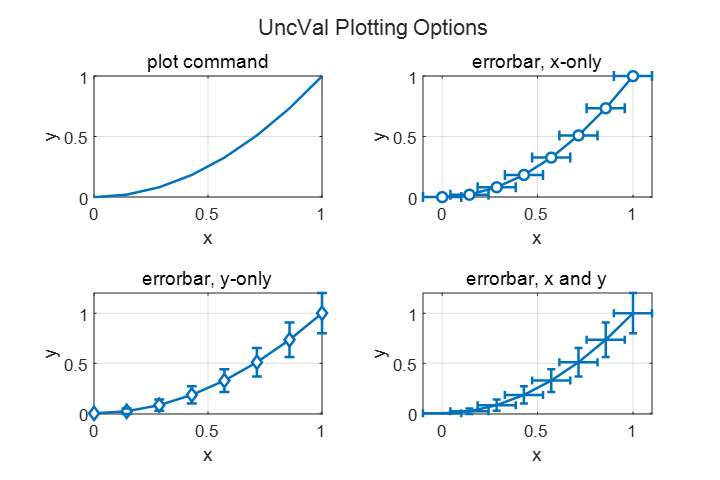
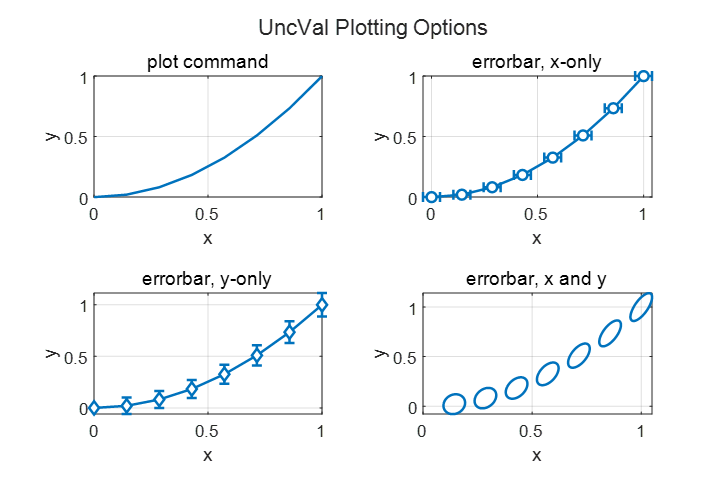
Modifying errobar plot of ellipses. Ellipses are plotted as lines by default. The user can supply a confidence interval. Updating to use modern argument validation approach.

diff --git a/@UncVal/errorbar.m b/@UncVal/errorbar.m
@@ -1,66 +1,69 @@
-function h = errorbar(varargin)
+function h = errorbar(ha, x, y, opts, erropts)
 %ERRORBAR errorbar plot for UncVal objects, automatically configures 95%
 %error bars.
 % One additional argument is supported beyond the normal errorbar
 % functionality.  For cases where both `x` and `y` are UncVal objects, pass
 % SDE=false to get normal x-y errorbars.  Defaults to SDE=true, which will
 % draw a standard devaite ellipse illustrating the correlation.
+%
+% INPUTS:
+%  ha: optional axes handle
+%  x: x coordinates to plot if x and y are both given.  If only one is
+%  given, a default x coordinate is generated
+%  y: y coordiantes to plot
+%  opts: Name-Value pairs specific to UncVal.errorbar
+%    .SDE: plot standard-deviational-ellipse for correlated `x` and `y`
+%          defaults to true
+%    .SDEpatch: if true, plots SDE's as patches.  if false, plots SDE's as
+%          lines that form closed ellipses.  defaults to false.
+%    .confidence: confidence interval for setting errorbars, set as a
+%    fractional confidence in interval [0, 1] defaults to 0.9545 (2-sigma)
+%  erropts: Name-Value pairs for standard errorbar call
 
+arguments
+    ha
+    x  = []
+    y = []
+    opts.SDE (1, 1) logical = true;
+    opts.SDEpatch (1, 1) logical = false;
+    opts.confidence double = 0.954499736103642;
+    erropts.?matlab.graphics.chart.primitive.ErrorBar;
+end
+
+erropts = namedargs2cell(erropts);
 
 %% parse input arguments
-i = 1;
-if nargin > 0 && all(ishghandle(varargin{1}))
-    ha = varargin{1};
-    i = i + 1;
-else
+% need to figure out if ha was given, if not first argument was x
+if ~all(ishghandle(ha))
+    % shift arguments back
+    y = x;
+    x = ha;
+
+    % use current axes
     ha = gca;
 end
 
-% check if y is supplied or x and y
-yOnly = nargin < (i+1) ...
-      || ~(isnumeric(varargin{i+1}(1)) || isa(varargin{i+1}(1), "UncVal"));
-if yOnly
-    % just y, let's make a default x
-    y = varargin{i};
+% if y is not given, generate default x coordinates
+if isempty(y)
+    y = x;
     x = 1:length(y);
-    i = i + 1;
-else
-    % x and y are given
-    x = varargin{i};
-    y = varargin{i+1};
-    i = i + 2;
-end
-extraArgs1 = varargin(i:end);
-
-% extract new arguments
-SDE = true;
-i = 1;
-extraArgs = {};
-while i <= length(extraArgs1)
-    if (ischar(extraArgs1{i}) || isstring(extraArgs1{i})) ...  %must be string like
-            && string(extraArgs1{i}) == "SDE" ... % and be equal to the SDE option name
-            && i < length(extraArgs1) ... % and there must be an element for the value of the object
-            && ~extraArgs1{i+1}
-        SDE = false;
-        i = i + 2;
-    else
-        extraArgs = [extraArgs, extraArgs1(i)]; %#ok<AGROW>
-        i = i + 1;
-    end
 end
 
 %% Make plot
 if isnumeric(x)
     % only y is an UncVal
-    h = errorbar(ha, x, y.val, 2.*y.unc(), "vertical", extraArgs{:});
+    ry = f_r(y, opts.confidence);
+    h = errorbar(ha, x, y.val, ry, "vertical", erropts{:});
 elseif isnumeric(y)
     % only x is an UncVal
-    h = errorbar(ha, x.val, y, 2.*x.unc(), "horizontal", extraArgs{:});
-elseif ~SDE
+    rx = f_r(x, opts.confidence);
+    h = errorbar(ha, x.val, y, rx, "horizontal", erropts{:});
+elseif ~opts.SDE
     % both x and y are UncVals, but user doesn't want correlated SDE
     % they may have different uncertainties, so we use the expanded form
-    h = errorbar(ha, x.val, y.val, 2.*y.unc(), 2.*y.unc(), ...
-        2.*x.unc(), 2.*x.unc(), extraArgs{:});
+    rx = f_r(x, opts.confidence);
+    ry = f_r(y, opts.confidence);
+    h = errorbar(ha, x.val, y.val, ry, ry, rx, rx, erropts{:});
 else
     % both x and y are UncVals, and we want the ellipse
     % will draw as an array of patch objects, each column of the plot
@@ -74,10 +77,10 @@ else
     [xp, yp] = unit_circle(); % one circle
     xp = xp + zeros(size(x)); % one circle per point
     yp = yp + zeros(size(y)); 
+    xp2 = zeros(size(xp));
+    yp2 = zeros(size(yp));
 
-
-    r = sqrt(-2*log(1-0.95)); % scaling to enclose 95% of values, 
-                              % TODO: let user override
+    r = sqrt(-2*log(1-opts.confidence)); % scaling for confidence
     for i = 1:length(x)    
         % axes of ellipse are given by the eigenvectors and eigenvalues of 
         % the covariance matrix
@@ -97,8 +100,20 @@ else
     xp2 = xp2 + x.val;
     yp2 = yp2 + y.val;
 
-    h = patch(xp2, yp2, ha.ColorOrder(ha.ColorOrderIndex, :), ...
-        extraArgs{:});
+    if opts.SDEpatch
+        h = patch(xp2(1:end-1, :), yp2(1:end-1, :), ...
+            ha.ColorOrder(ha.ColorOrderIndex, :), ...
+            "EdgeColor", ha.ColorOrder(ha.ColorOrderIndex, :), ...
+            "FaceAlpha", 0.3, ...
+            erropts{:});
+        ha.ColorOrderIndex = ha.ColorOrderIndex + 1;
+    else
+        % collapse into a single line, separating individual ellipses with
+        % nans
+        xp2(end+1, :) = nan;
+        yp2(end+1, :) = nan;
+        h = plot(xp2(:), yp2(:), erropts{:});
+    end
     
 end
 
@@ -113,7 +128,13 @@ end
 % angle theta / pi
 thetaQpi = linspace(0, 2, n+1)';
 
-x = cospi(thetaQpi(1:n));
-y = sinpi(thetaQpi(1:n));
+x = cospi(thetaQpi);
+y = sinpi(thetaQpi);
+end
+
+function r = f_r(obj, p)
+% helper function to return multiplier for double-sided probability
+
+r = quantile(obj, 0.5*p+0.5) - obj.val;
 end
 

diff --git a/TEST_UncVal_CovPlot.m b/TEST_UncVal_CovPlot.m
@@ -18,39 +18,26 @@ xlabel("x"); ylabel("y");
 scatter(xmc, ymc, "filled", ...
     MarkerFaceAlpha=50/255, ...
     MarkerEdgeColor="none");
-errorbar(x, y, ...
-    FaceAlpha=0.3, ...
-    FaceColor=ha.ColorOrder(2, :), ...
-    EdgeColor=ha.ColorOrder(2, :)); 
+errorbar(x, y, SDEpatch=true); 
 
 nexttile;hold on;
 xlabel("y");ylabel("z");
 scatter(ymc, zmc, "filled", ...
     MarkerFaceAlpha=50/255, ...
     MarkerEdgeColor="none");
-errorbar(y, z, ...
-    FaceAlpha=0.3, ...
-    FaceColor=ha.ColorOrder(2, :), ...
-    EdgeColor=ha.ColorOrder(2, :)); 
+errorbar(y, z); 
 
 nexttile;hold on;
 xlabel("y");ylabel("z2");
 scatter(ymc, z2mc, "filled", ...
     MarkerFaceAlpha=50/255, ...
     MarkerEdgeColor="none");
-errorbar(y, z2, ...
-    FaceAlpha=0.3, ...
-    FaceColor=ha.ColorOrder(2, :), ...
-    EdgeColor=ha.ColorOrder(2, :)); 
+errorbar(y, z2); 
 
 nexttile;hold on;
 xlabel("x");ylabel("x");
 scatter(xmc, xmc, "filled", ...
     MarkerFaceAlpha=50/255, ...
     MarkerEdgeColor="none");
-errorbar(x, x, ...
-    FaceAlpha=0.3, ...
-    FaceColor=ha.ColorOrder(2, :), ...
-    EdgeColor=ha.ColorOrder(2, :), ...
-    LineWidth=2); 
+errorbar(x, x , LineWidth=2); 
 

diff --git a/TEST_UncVal_2.m b/TEST_UncVal_2.m
@@ -4,8 +4,8 @@
 % the errorbar command automatically plots error bars at ±2*x.unc()
 
 %% Test 2
-x = UncVal(linspace(0, 1, 8), 0.1/2, "x");
-y = x.^2;
+x = UncVal(linspace(0, 1, 8), 0.02, "x");
+y = x.^2 + UncVal(0, 0.04, "y");
 
 figure("defaultErrorBarLineWidth", 1.5, ...
     "Units", "in", "Position", [1,1,6,4]);
@@ -27,4 +27,4 @@ errorbar(x.val, y, Marker="d", MarkerFaceColor=ha.Color);
 
 nexttile;hold on;xlabel("x");ylabel("y");
 title("errorbar, x and y", FontWeight="normal")
-errorbar(x, y, CapSize=4, SDE=false);
+errorbar(x, y);

diff --git a/README.md b/README.md
@@ -49,9 +49,10 @@ expected to be true for a typical use pattern.
 
 The plot and errorbar functions are overloaded so that objects can be 
 passed directly to plot calls.  Errorbars are automatically configured.
+Correlated errors are plotted as ellipses.
 
 <picture>
-  <source media="(prefers-color-scheme: dark)" srcset="https://github.com/btmy87/UncValMatLab/blob/f1cf926f13616ede45290f293d57dd828b0057f9/dark.png">
-  <source media="(prefers-color-scheme: light)" srcset="https://github.com/btmy87/UncValMatLab/blob/f1cf926f13616ede45290f293d57dd828b0057f9/light.png">
-  <img alt="Example plot with error bars." src="https://github.com/btmy87/UncValMatLab/blob/f1cf926f13616ede45290f293d57dd828b0057f9/light.png">
+  <source media="(prefers-color-scheme: dark)" srcset="dark.png">
+  <source media="(prefers-color-scheme: light)" srcset="light.png">
+  <img alt="Example plot with error bars." src="light.png">
 </picture>
